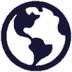
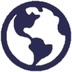
Fixes widget placement on product page and corrects globe color

diff --git a/frontend/public/widget/co2okWidgetMark-519dc2a3.js b/frontend/public/widget/co2okWidgetMark-519dc2a3.js
@@ -117,8 +117,10 @@ let Co2okWidgetXL = {
       let widget_div = `<div id="widgetContainerDZ" style="margin-top:25px;margin-bottom:25px;margin-left:18px;width:250px;height:auto;display:flex;flex-direction:row;justify-content:center;align-items:center;"></div>`
 
       let pagetype = window.location.pathname.split("/")[1]
-      if (pagetype == "product" || pagetype == "product-categorie")
+      if (pagetype == "product-categorie")
         jQuery('#egm_call_me_back-2').before(widget_div)
+      else if (pagetype == "product")
+        jQuery('#egm_call_me_back-3').before(widget_div)
     },
 
     insertInfoHoverHtml: function() {
